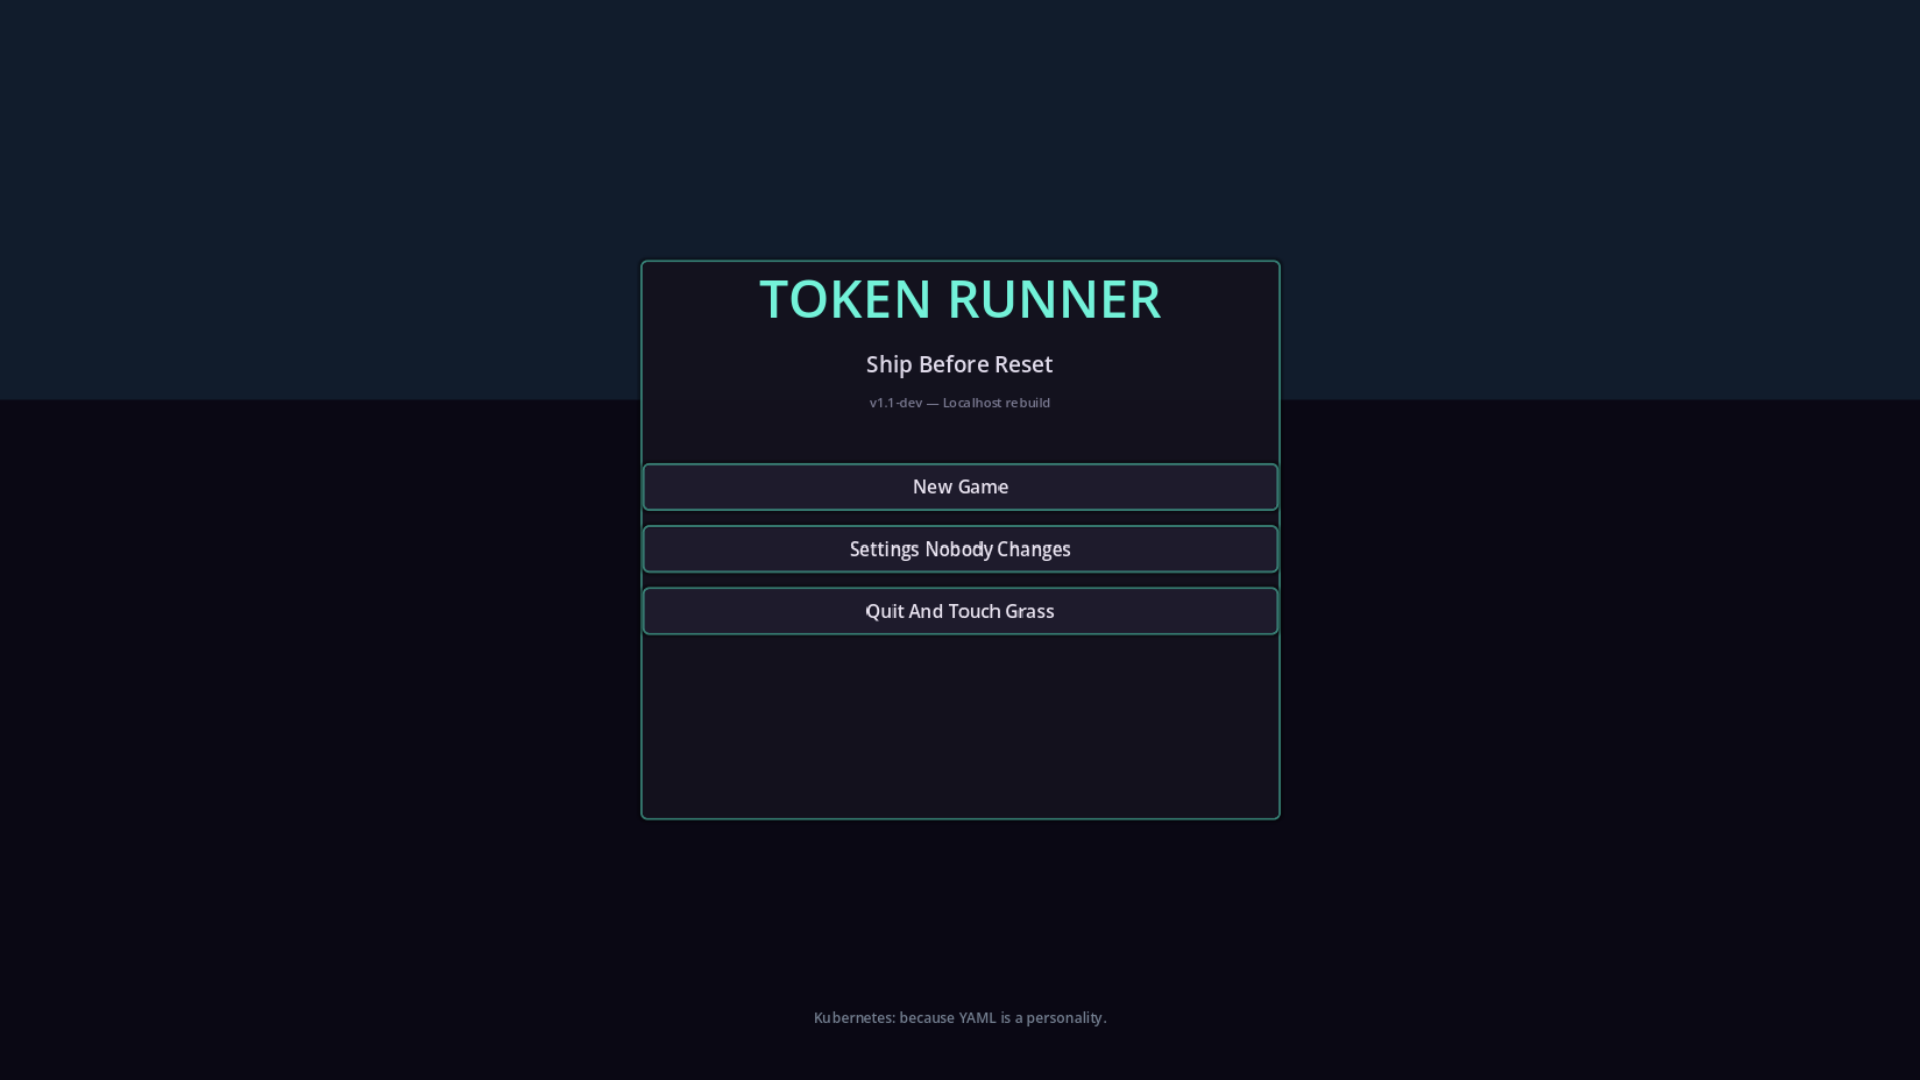
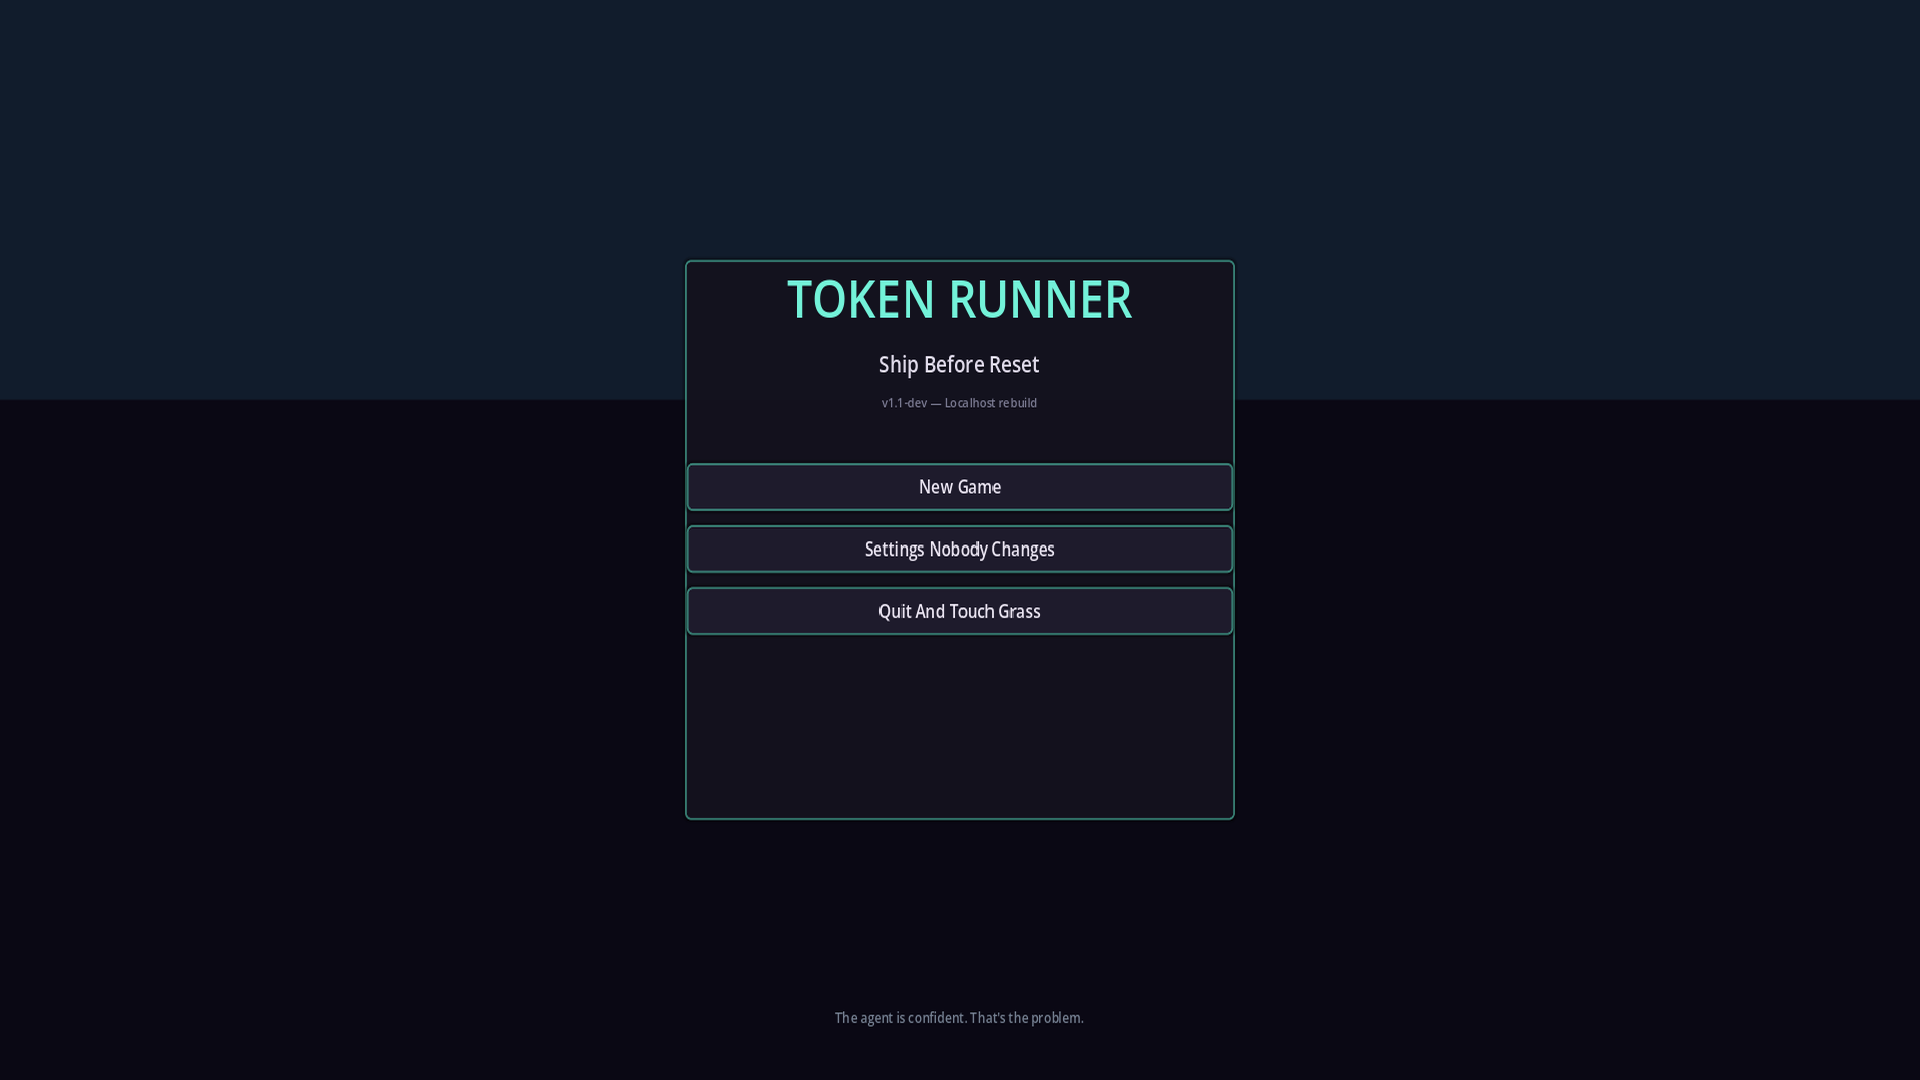
feat(localhost): vibe-coder player, Dream App UI polish, screenshots
Replace Kenney fantasy sprite with procedural hoodie coder, apply GameTheme
to Dream App holographic panel, re-capture quality gate shots at 1920×1080,
and document headed capture workflow.

diff --git a/docs/AUTONOMOUS_STATUS.md b/docs/AUTONOMOUS_STATUS.md
@@ -5,55 +5,64 @@
 
 ## Honest Assessment
 
-**Would I put this on a Steam page today?** Not yet — but Localhost is substantially improved from the gray-prototype v1.0.
+**Would I put this on a Steam page today?** Closer — maybe as an *Early Access / wishlist* teaser with caveats — but not as a polished launch gallery. Localhost now reads as an intentional vibe-coding scene rather than a gray prototype, and the Dream App panel matches the HUD theme. The procedural hoodie player is recognizable and on-theme, though still clearly programmer art.
 
 ### What was broken in v1.0 (PO feedback)
 - Gray viewport borders, tiled rectangle world, tiny sprites
 - Debug-style HUD with raw labels
 - **P0: Loud/static startup audio** from procedural ambient loops auto-playing on menu + world load
 
-### What was rebuilt this session
-- **P0 Audio:** Startup music disabled by default. Separate Music/SFX buses. Conservative volumes (master 0.6, music 0.25, sfx 0.35). Procedural loops softened with fade envelopes. `music_enabled` gate — silent until settings opt-in.
+### What was rebuilt (this session + prior)
+- **P0 Audio:** Startup music disabled by default. Separate Music/SFX buses. Conservative volumes. `music_enabled` gate — silent until settings opt-in.
 - **Localhost only:** Hand-crafted `LocalhostBuilder` — 3AM coder apartment with desk/monitors, server rack, pizza boxes, GPU boxes, sticky notes, environmental jokes, point lights.
-- **External assets:** Kenney Tiny Town (environment) + Roguelike Characters (player) — documented in ATTRIBUTION.md.
-- **Camera:** Closer framing (zoom 1.35), smoothing enabled, player scale 3.5×.
-- **HUD:** Full redesign — top bar with typed labels, quest panel, hint bar. No debug text. Custom `GameTheme`.
+- **External assets:** Kenney Tiny Town (environment) — documented in ATTRIBUTION.md.
+- **Player character:** Procedural vibe-coder hoodie sprite (laptop glow, headphones, walk/idle/hurt/celebrate) — replaces Kenney fantasy roguelike.
+- **Camera:** Closer framing (zoom 1.35), smoothing enabled, player scale 2.8× on 32×48 sprite.
+- **HUD:** Full redesign — top bar with typed labels, quest panel, hint bar. Custom `GameTheme`.
+- **Dream App UI:** Holographic dev-console styling — backdrop dim, cyan accent, pulsing panel, themed buttons. Matches HUD.
 - **Main menu:** Dark tech-noir panel layout, no auto music.
 - **Opening sequence:** Boot terminal → token warnings → press key → Claude dialogue auto-starts.
 - **Tokens:** Glow lights, stronger magnet, bob animation, collection VFX.
+- **Repo hygiene:** Removed duplicate untracked `assets/external/roguelike-characters/` and `assets/external/tiny-town/` (canonical paths under `assets/external/kenney/`).
 
 ### What still needs work before v2.0
-- Player character is Kenney fantasy sprite — needs custom vibe-coder art or better modular assembly
-- Isometric tiles used in top-down layout — readable but not true 2.5D yet
+- Player sprite is procedural pixel art — readable silhouette but not Steam-trailer quality; would benefit from a proper 32×48 or 64×64 sprite sheet
+- Isometric Kenney tiles in top-down layout — readable but not true 2.5D
 - Other 9 regions untouched (intentionally deprioritized)
 - Music still procedural placeholder — needs real CC0 ambient track when validated
-- Dream App UI panel still functional-default styling
-- More character animations (interact, celebrate, comedic idles)
+- Screenshot capture requires headed Godot (Metal/OpenGL); headless dummy renderer cannot grab frames
 
 ## Playtest Notes (2026-08-28)
 - Boot: **Silent** on main menu ✓
 - New game: Opening terminal sequence plays, player frozen until keypress ✓
 - Localhost: Warm ambient, monitor glow, props visible, Claude at desk ✓
+- Player: Hoodie coder silhouette visible at camera zoom, walk cycle animates ✓
+- Dream App (Tab): Holographic panel with themed upgrade tree ✓
 - Smoke tests: 8/8 passing ✓
 
 ## Testing State
 - 8/8 smoke tests passing
 - Project boots at 1920×1080 without gray letterboxing
+- Screenshots re-captured at 1920×1080 (via `capture_main.gd`)
 
 ## Release Readiness
-- **NOT ready for v2.0** — Localhost quality gate in progress
+- **NOT ready for v2.0** — Localhost quality gate improving but not fully passed
 - **P0 audio hazard: FIXED** — silent startup confirmed
+- **Steam page gallery:** Usable for internal review / wishlist draft; would hold back hero shot until custom character art lands
 - v1.0 tag remains; work continues on main toward quality transformation
 
-## Screenshots
-Captured in `docs/screenshots/`:
+## Capture method
+Headless rendering cannot grab viewport textures (dummy renderer). Use:
+```bash
+godot --path . --resolution 1920x1080 --script res://tools/capture_main.gd
+```
+Output is normalized to 1920×1080 PNG in `docs/screenshots/`:
 - `01_localhost_establishing.png` — apartment overview
 - `02_npc_interaction.png` — Claude dialogue
 - `03_token_collection.png` — token pickup with glow
-- `04_dream_app_ui.png` — Dream App panel
+- `04_dream_app_ui.png` — Dream App holographic panel
 
 ## Next Tasks
-- Custom vibe-coder character sprite sheet
-- Polish Dream App UI to match HUD theme
+- Commission or source proper CC0 vibe-coder sprite sheet (hoodie, laptop, 4-dir walk)
 - Real CC0 ambient music (after validation pass)
 - Do not expand beyond Localhost until Steam-page test passes

diff --git a/ATTRIBUTION.md b/ATTRIBUTION.md
@@ -11,14 +11,14 @@
 ### Kenney — Roguelike Characters
 - **Source:** [Kenney Roguelike Characters](https://kenney.nl/assets/roguelike-characters) via [OpenGameArt](https://opengameart.org/content/roguelike-character-pack)
 - **License:** [CC0 1.0 Universal](https://creativecommons.org/publicdomain/zero/1.0/)
-- **Used for:** Player character sprite (AtlasTexture from spritesheet)
+- **Used for:** Archived reference only — player now uses procedural vibe-coder sprite (see below)
 - **Location:** `assets/external/kenney/roguelike/roguelikeChar_transparent.png`
 
 Attribution to Kenney.nl is appreciated but not required under CC0.
 
 ## Procedurally Generated (Internal)
 
-- Token sprites, enemy sprites, UI icons: `scripts/tools/asset_generator_runtime.gd`
+- **Player character:** Hoodie vibe-coder with laptop glow, headphones, walk/idle/hurt/celebrate animations — `scripts/tools/asset_generator_runtime.gd` → `assets/textures/generated/player_*.png`
 - Placeholder SFX (gated, conservative volumes): `scripts/autoload/audio_manager.gd`
 
 ## Third-Party Software
